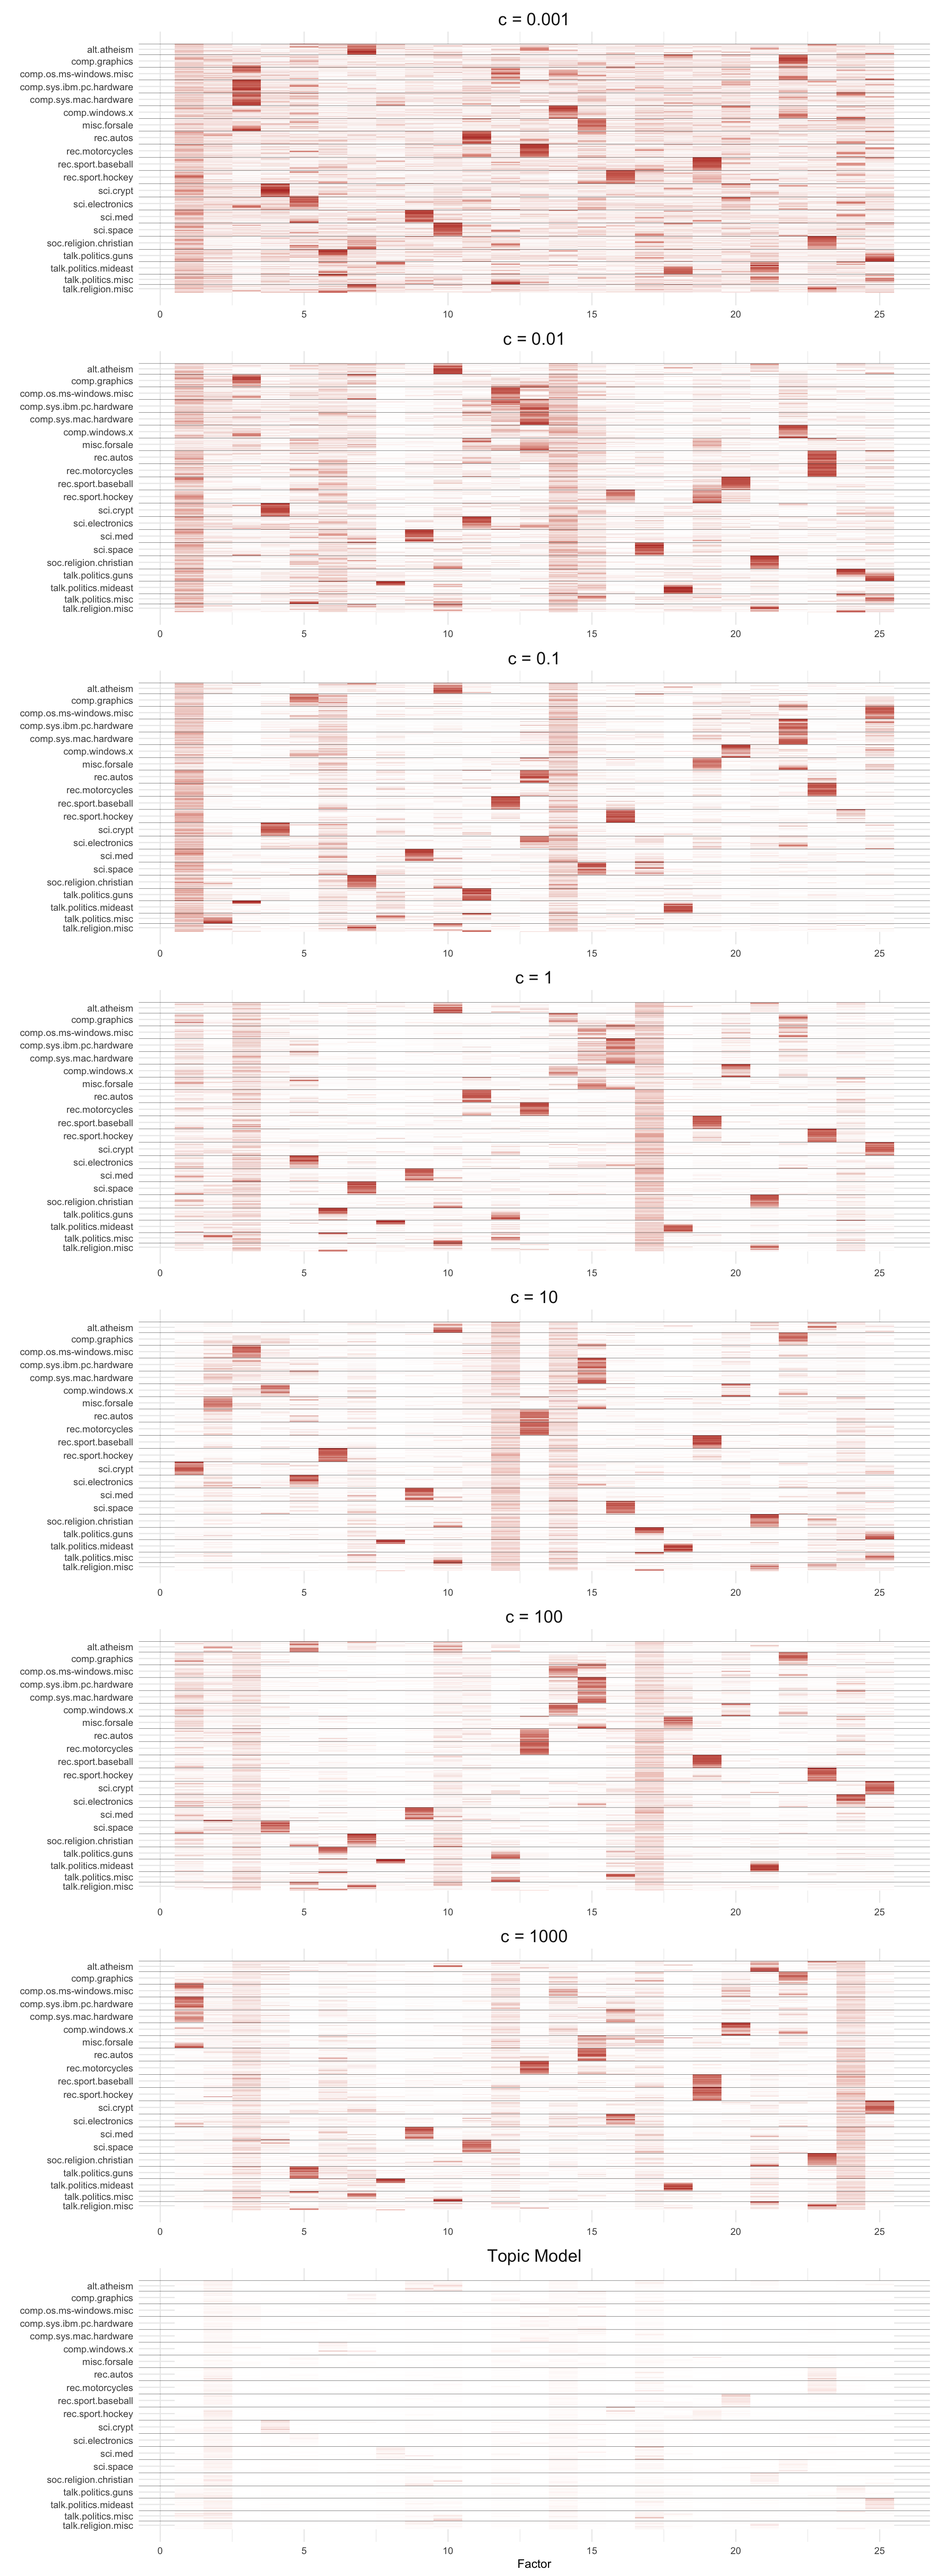
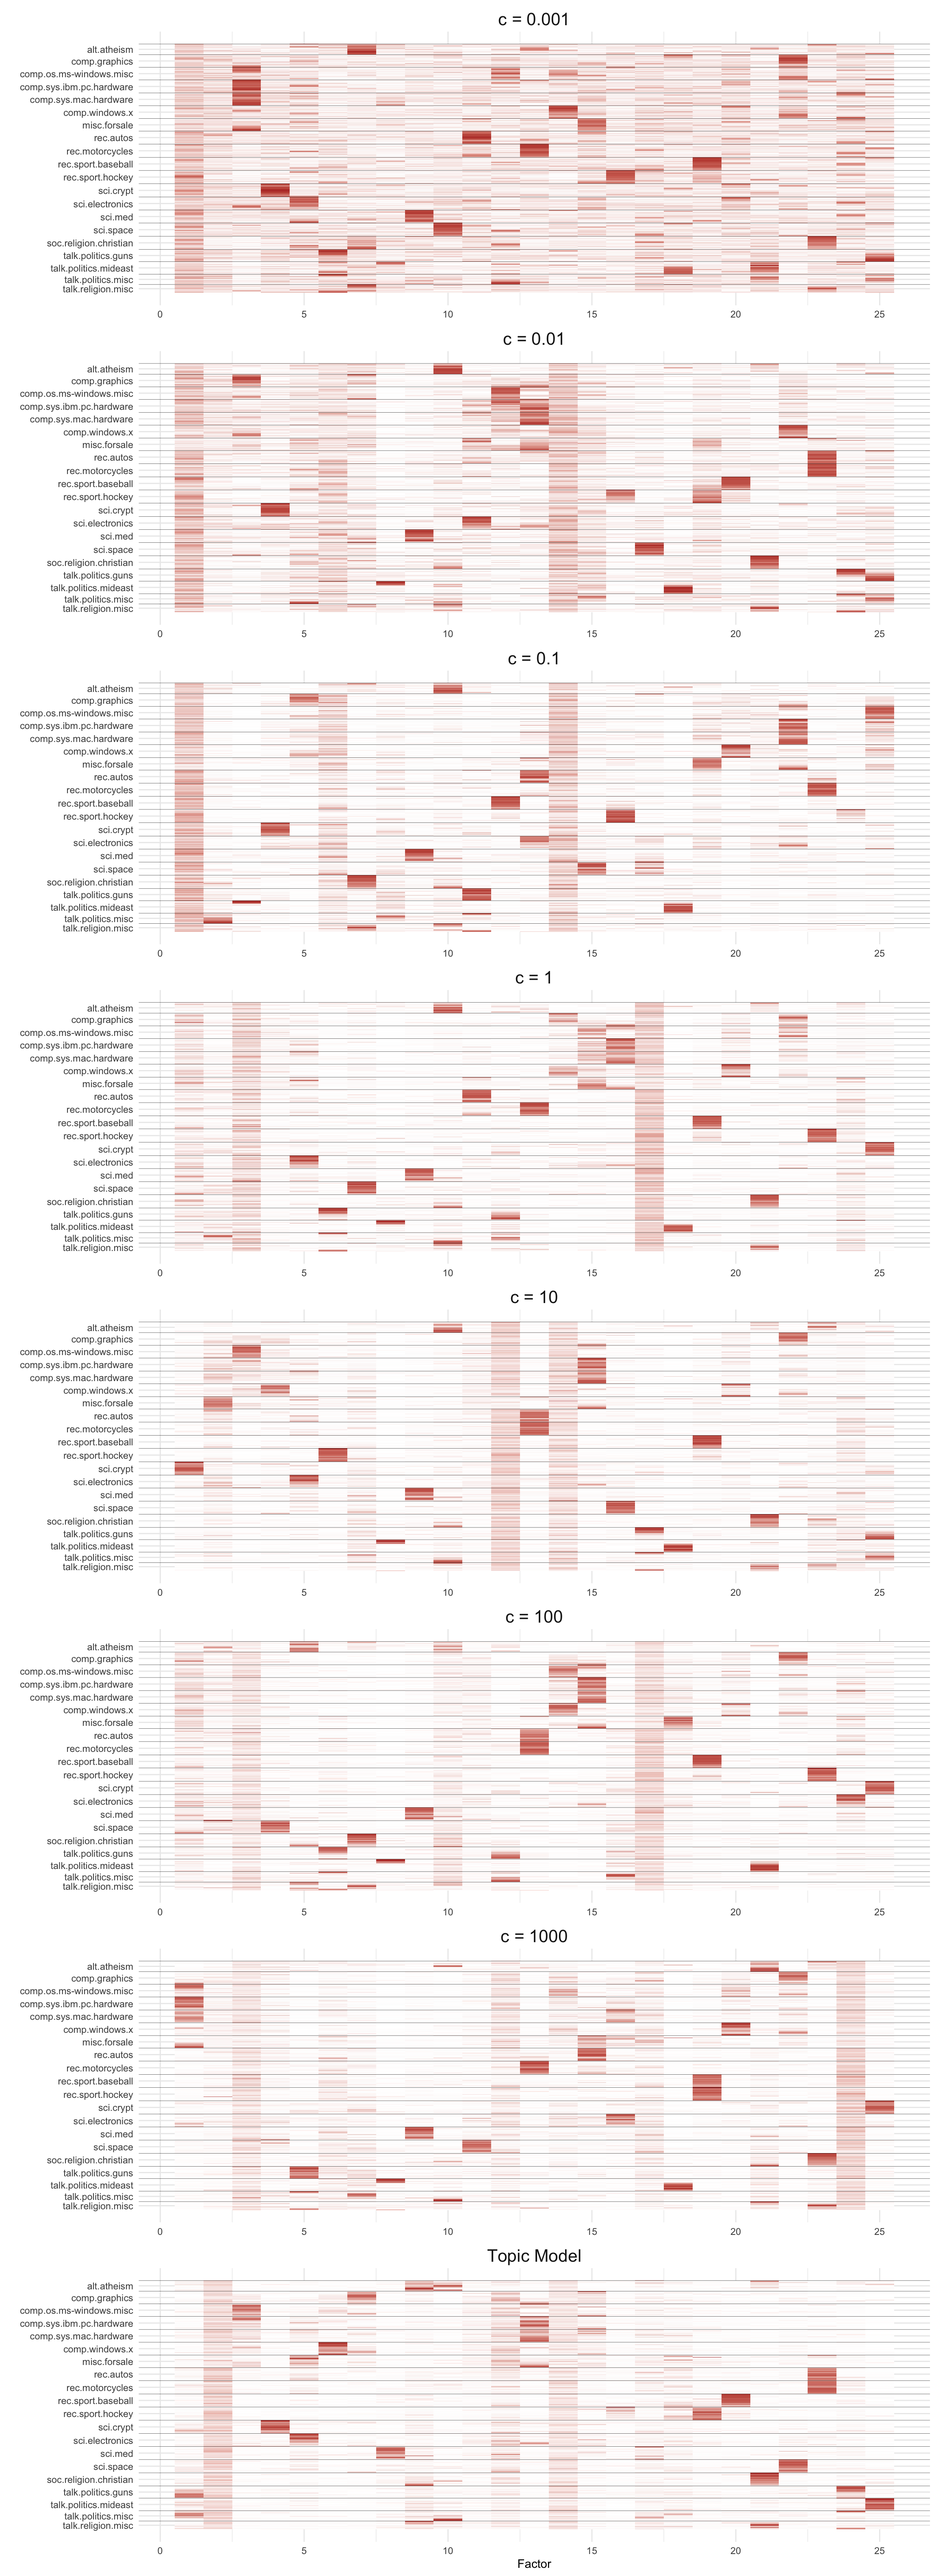
added updated newsgroups

diff --git a/docs/newsgroups25.html b/docs/newsgroups25.html
@@ -438,10 +438,10 @@ changes </a>
 <div id="strongRMarkdownfilestronguncommittedchanges"
 class="panel-collapse collapse">
 <div class="panel-body">
-<p>The R Markdown is untracked by Git. To know which version of the R
-Markdown file created these results, you’ll want to first commit it to
-the Git repo. If you’re still working on the analysis, you can ignore
-this warning. When you’re finished, you can run
+<p>The R Markdown file has unstaged changes. To know which version of
+the R Markdown file created these results, you’ll want to first commit
+it to the Git repo. If you’re still working on the analysis, you can
+ignore this warning. When you’re finished, you can run
 <code>wflow_publish</code> to commit the R Markdown file and build the
 HTML.</p>
 </div>
@@ -534,15 +534,15 @@ project makes it easier to run your code on other machines.</p>
 <div class="panel panel-default">
 <div class="panel-heading">
 <p class="panel-title">
-<a data-toggle="collapse" data-parent="#workflowr-checks" href="#strongRepositoryversionstrongahrefhttpsgithubcomeweinelog1pexperimentstreed0a464930ae785172b0a3c939bc71b7c353145aetargetblankd0a4649a">
+<a data-toggle="collapse" data-parent="#workflowr-checks" href="#strongRepositoryversionstrongahrefhttpsgithubcomeweinelog1pexperimentstree6504bbe4b54a83666698d4a5c93bf8f078b77fc5targetblank6504bbea">
 <span class="glyphicon glyphicon-ok text-success"
 aria-hidden="true"></span> <strong>Repository version:</strong>
-<a href="https://github.com/eweine/log1p_experiments/tree/d0a464930ae785172b0a3c939bc71b7c353145ae" target="_blank">d0a4649</a>
+<a href="https://github.com/eweine/log1p_experiments/tree/6504bbe4b54a83666698d4a5c93bf8f078b77fc5" target="_blank">6504bbe</a>
 </a>
 </p>
 </div>
 <div
[2 lines of base64/hex data omitted]
 class="panel-collapse collapse">
 <div class="panel-body">
 <p>
@@ -552,7 +552,7 @@ reproducibility.
 </p>
 <p>
 The results in this page were generated with repository version
-<a href="https://github.com/eweine/log1p_experiments/tree/d0a464930ae785172b0a3c939bc71b7c353145ae" target="_blank">d0a4649</a>.
+<a href="https://github.com/eweine/log1p_experiments/tree/6504bbe4b54a83666698d4a5c93bf8f078b77fc5" target="_blank">6504bbe</a>.
 See the <em>Past versions</em> tab to see a history of the changes made
 to the R Markdown and HTML files.
 </p>
@@ -571,10 +571,8 @@ Ignored files:
     Ignored:    .Rhistory
     Ignored:    data/.DS_Store
 
-Untracked files:
-    Untracked:  analysis/newsgroups25.Rmd
-    Untracked:  data/pancreas.zip
-    Untracked:  data/pancreas/
+Unstaged changes:
+    Modified:   analysis/newsgroups25.Rmd
 
 </code></pre>
 <p>
@@ -589,10 +587,74 @@ have uncommitted changes.
 <hr>
 </div>
 <div id="versions" class="tab-pane fade">
+
 <p>
-There are no past versions. Publish this analysis with
-<code>wflow_publish()</code> to start tracking its development.
+These are the previous versions of the repository in which changes were
+made to the R Markdown (<code>analysis/newsgroups25.Rmd</code>) and HTML
+(<code>docs/newsgroups25.html</code>) files. If you’ve configured a
+remote Git repository (see <code>?wflow_git_remote</code>), click on the
+hyperlinks in the table below to view the files as they were in that
+past version.
 </p>
+<div class="table-responsive">
+<table class="table table-condensed table-hover">
+<thead>
+<tr>
+<th>
+File
+</th>
+<th>
+Version
+</th>
+<th>
+Author
+</th>
+<th>
+Date
+</th>
+<th>
+Message
+</th>
+</tr>
+</thead>
+<tbody>
+<tr>
+<td>
+Rmd
+</td>
+<td>
+<a href="https://github.com/eweine/log1p_experiments/blob/6504bbe4b54a83666698d4a5c93bf8f078b77fc5/analysis/newsgroups25.Rmd" target="_blank">6504bbe</a>
+</td>
+<td>
+Eric Weine
+</td>
+<td>
+2025-01-29
+</td>
+<td>
+added newsgroups 25
+</td>
+</tr>
+<tr>
+<td>
+html
+</td>
+<td>
+<a href="https://rawcdn.githack.com/eweine/log1p_experiments/6504bbe4b54a83666698d4a5c93bf8f078b77fc5/docs/newsgroups25.html" target="_blank">6504bbe</a>
+</td>
+<td>
+Eric Weine
+</td>
+<td>
+2025-01-29
+</td>
+<td>
+added newsgroups 25
+</td>
+</tr>
+</tbody>
+</table>
+</div>
 <hr>
 </div>
 </div>
@@ -810,7 +872,8 @@ LL_c100 &lt;- normalize_bars(fit_list$`100`$U)
 LL_c100 &lt;- LL_c100[cell.idx, ]
 LL_c1000 &lt;- normalize_bars(fit_list$`1000`$U)
 LL_c1000 &lt;- LL_c1000[cell.idx, ]
-LL_cinf &lt;- normalize_bars(fit_list$`Inf`$L)
+LL_cinf &lt;- Matrix::Diagonal(x = 1 / s) %*% fit_list$`Inf`$L
+LL_cinf &lt;- normalize_bars(as.matrix(LL_cinf))
 LL_cinf &lt;- LL_cinf[cell.idx, ]
 
 make.heatmap.tib &lt;- function(FF) {
@@ -876,6 +939,43 @@ plt &lt;- ggplot(heatmap.tib, aes(x = Factor, y = -Cell.idx, fill = Loading)) +
 
 plt</code></pre>
 <p><img src="figure/newsgroups25.Rmd/unnamed-chunk-5-1.png" width="1152" style="display: block; margin: auto;" /></p>
+<p>
+<button type="button" class="btn btn-default btn-xs btn-workflowr btn-workflowr-fig" data-toggle="collapse" data-target="#fig-unnamed-chunk-5-1">
+Past versions of unnamed-chunk-5-1.png
+</button>
+</p>
+<div id="fig-unnamed-chunk-5-1" class="collapse">
+<div class="table-responsive">
+<table class="table table-condensed table-hover">
+<thead>
+<tr>
+<th>
+Version
+</th>
+<th>
+Author
+</th>
+<th>
+Date
+</th>
+</tr>
+</thead>
+<tbody>
+<tr>
+<td>
+<a href="https://github.com/eweine/log1p_experiments/blob/6504bbe4b54a83666698d4a5c93bf8f078b77fc5/docs/figure/newsgroups25.Rmd/unnamed-chunk-5-1.png" target="_blank">6504bbe</a>
+</td>
+<td>
+Eric Weine
+</td>
+<td>
+2025-01-29
+</td>
+</tr>
+</tbody>
+</table>
+</div>
+</div>
 <p>The plot of the fastTopics fit above looks weird, and I believe it is
 perhaps because the most loaded document on each topic is often much
 more loaded than any other topic, and so normalizing the columns to have
@@ -884,6 +984,43 @@ plot a structure plot of the fastTopcis fit below:</p>
 <pre class="r"><code>sp &lt;- fastTopics::structure_plot(fit_list$`Inf`, grouping = topics, gap = 40)</code></pre>
 <pre class="r"><code>sp</code></pre>
 <p><img src="figure/newsgroups25.Rmd/unnamed-chunk-7-1.png" width="672" style="display: block; margin: auto;" /></p>
+<p>
+<button type="button" class="btn btn-default btn-xs btn-workflowr btn-workflowr-fig" data-toggle="collapse" data-target="#fig-unnamed-chunk-7-1">
+Past versions of unnamed-chunk-7-1.png
+</button>
+</p>
+<div id="fig-unnamed-chunk-7-1" class="collapse">
+<div class="table-responsive">
+<table class="table table-condensed table-hover">
+<thead>
+<tr>
+<th>
+Version
+</th>
+<th>
+Author
+</th>
+<th>
+Date
+</th>
+</tr>
+</thead>
+<tbody>
+<tr>
+<td>
+<a href="https://github.com/eweine/log1p_experiments/blob/6504bbe4b54a83666698d4a5c93bf8f078b77fc5/docs/figure/newsgroups25.Rmd/unnamed-chunk-7-1.png" target="_blank">6504bbe</a>
+</td>
+<td>
+Eric Weine
+</td>
+<td>
+2025-01-29
+</td>
+</tr>
+</tbody>
+</table>
+</div>
+</div>
 </div>
 <div id="factors" class="section level2">
 <h2>Factors</h2>
@@ -1791,7 +1928,8 @@ loaded via a namespace (and not attached):
 [73] highr_0.11          backports_1.5.0     RhpcBLASctl_0.23-42
 [76] broom_1.0.6         SQUAREM_2021.1      ashr_2.2-63        
 [79] httpuv_1.6.15       bslib_0.7.0         Rcpp_1.0.13        
-[82] xfun_0.45           fs_1.6.4            pkgconfig_2.0.3    </code></pre>
+[82] whisker_0.4.1       xfun_0.45           fs_1.6.4           
+[85] pkgconfig_2.0.3    </code></pre>
 </div>
 </div>
 </div>
